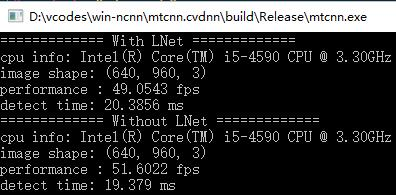
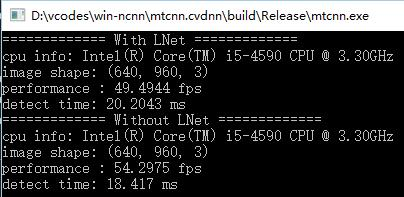
update speed and fddb

Changed region(s): [[0.0, 0.0, 1.0, 1.0]]

diff --git a/README.md b/README.md
@@ -42,8 +42,8 @@ set VS=2015
 
   模式   |   时间
 :------: | :------:
- w LNet  | 20.39 ms
-w/o LNet | 19.38 ms
+ w LNet  | 20.20 ms
+w/o LNet | 18.42 ms
 
 ![](TIME.jpg)
 
